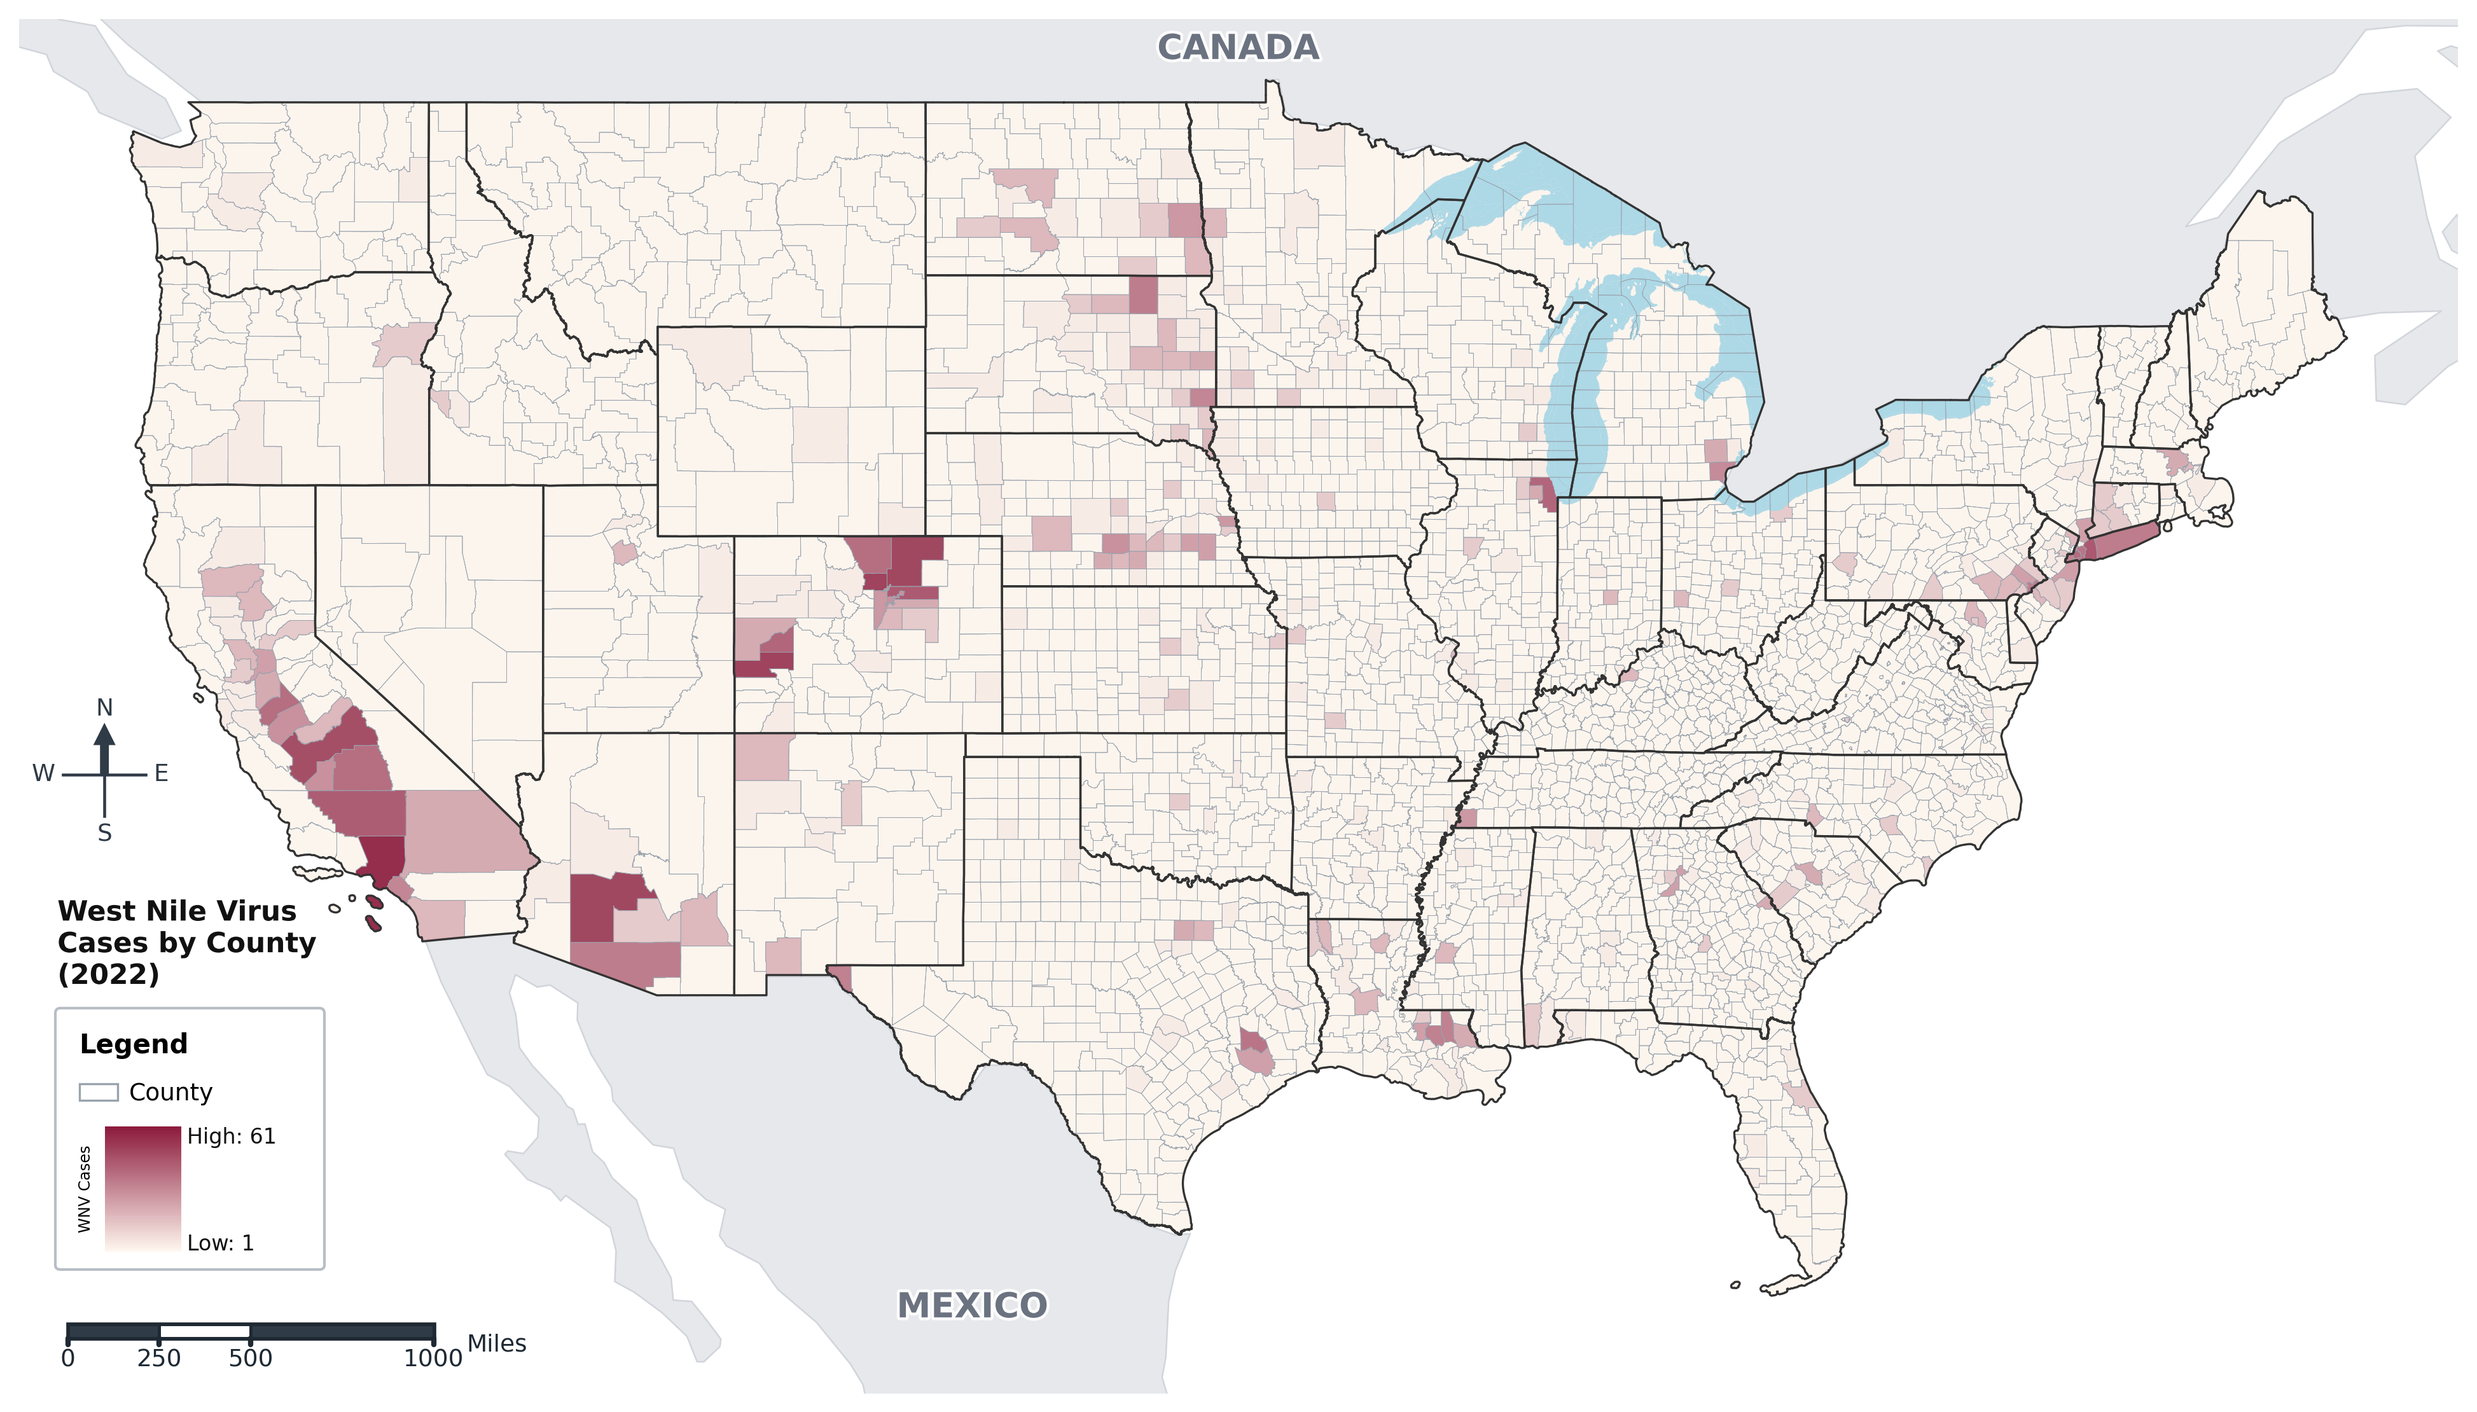
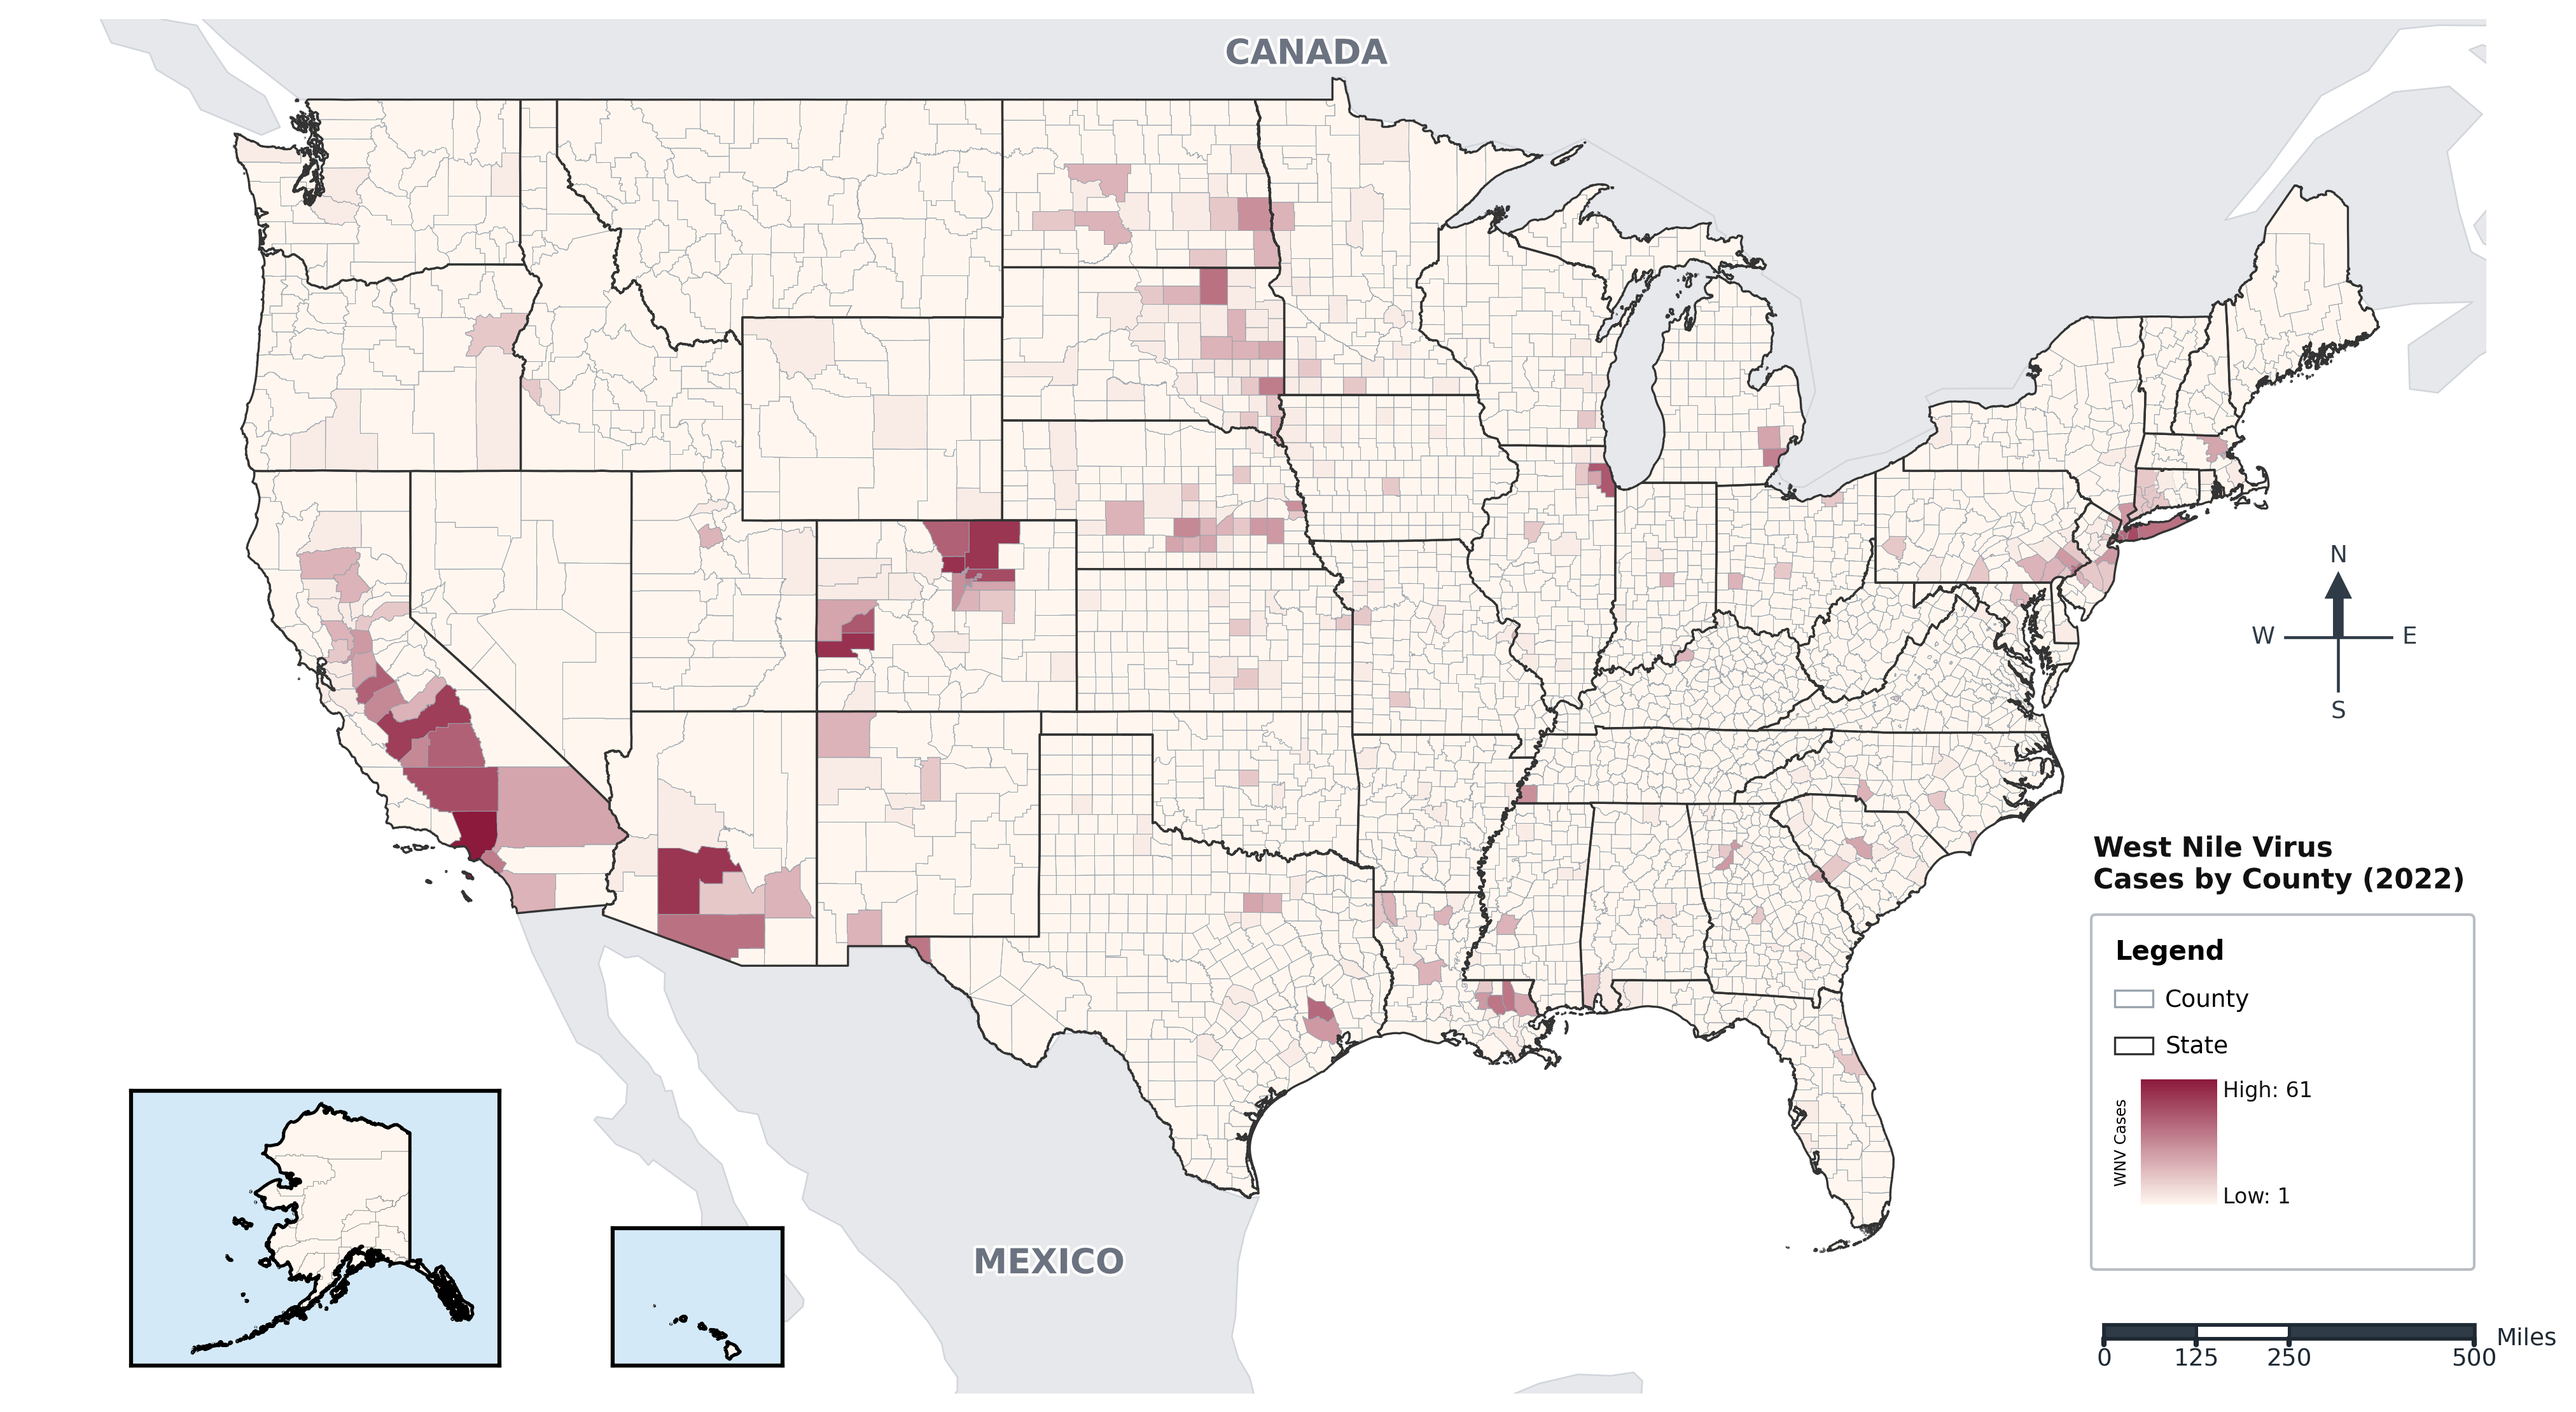
connecticut region fixed for 2017-2022

diff --git a/notebooks/national_embeddings/maps.py b/notebooks/national_embeddings/maps.py
@@ -32,6 +32,11 @@ SCRIPT_DIR = Path(__file__).parent  # ../national_embeddings/
 # shapefiles obtained from: https://www.census.gov/cgi-bin/geo/shapefiles/index.php on Feb. 4, 2026
 CENSUS_STATES = "https://www2.census.gov/geo/tiger/GENZ2023/shp/cb_2023_us_state_500k.zip"
 CENSUS_COUNTIES = "https://www2.census.gov/geo/tiger/GENZ2023/shp/cb_2023_us_county_500k.zip"
+# this is for connecticut, to be able to plot it up until 2023. 
+# connecticut used counties for WNV case data up until 2022. 
+# and it also used geoids for keeping track of the case data, 
+# thus I need an older version to plot it 
+LEGACY_COUNTIES_CT = "https://www2.census.gov/geo/tiger/GENZ2018/shp/cb_2018_us_county_500k.zip"
 
 COUNTRIES = SCRIPT_DIR / "shapefiles/ne_110m_admin_0_countries"
 ALL_DATA = SCRIPT_DIR / "national_wnv_case_data/long_format_emb_and_cases.csv"
@@ -39,11 +44,14 @@ ALL_DATA = SCRIPT_DIR / "national_wnv_case_data/long_format_emb_and_cases.csv"
 # ----- Get state and county geographies (and great lakes), neighboring countries, embeddings + WNV data ----- #
 states = gpd.read_file(CENSUS_STATES)
 counties = gpd.read_file(CENSUS_COUNTIES)
+legacy_counties = gpd.read_file(LEGACY_COUNTIES_CT)
+legacy_ct_counties = legacy_counties[legacy_counties["STATEFP"] == "09"].copy()
 
 df_all = pd.read_csv(ALL_DATA)
 df_all["GEOID"] = df_all["GEOID"].astype(str).str.zfill(5)
 
 world = gpd.read_file(COUNTRIES)
+
 
 # ----- Project to EPSG:3857 and adjust boundaries ----- #
 
@@ -64,9 +72,7 @@ states = states.to_crs(3857)
 states = states[~states["STUSPS"].isin(exclude)]
 counties = counties[~counties["STATEFP"].isin(exclude_sfips)]
 counties = counties.to_crs(3857)
-
-# get united states outline
-# us_outline = gpd.GeoDataFrame(geometry=[unary_union(states.geometry)], crs=states.crs)
+legacy_ct_counties = legacy_ct_counties.to_crs(3857)
 
 # ----- Merge previous long dataframe with geographies ----- #
 
@@ -278,12 +284,28 @@ counties_all = gpd.read_file(CENSUS_COUNTIES).to_crs(3857)
 us_union = unary_union(states.geometry)
 us_outline = gpd.GeoDataFrame(geometry=[remove_holes(us_union)],crs=states.crs)
 
-for year in range(2017, 2018):
+for year in range(2022, 2023):
     col = f"Cases_{year}"
-    
-    # Prepare data
-    plot_df = df_merged.copy()
-    plot_df["plot_col"] = plot_df[col].copy()
+    # IMPORTANT: 2017-2022 CT data plotting
+    if year <= 2022:
+        # Use legacy CT counties for this year
+        plot_df_base = df_merged[~df_merged["GEOID"].str.startswith("09")].copy()
+        
+        # Merge legacy CT counties with case data
+        legacy_ct_geom = legacy_ct_counties[["GEOID", "geometry"]]
+        ct_cases = df_all[df_all["GEOID"].str.startswith("09")][["GEOID", col]].copy()
+        ct_merged = pd.merge(ct_cases, legacy_ct_geom, on="GEOID", how="inner")
+        ct_merged = gpd.GeoDataFrame(ct_merged, geometry=ct_merged.geometry, crs=states.crs)
+        ct_merged = ct_merged.rename(columns={col: "plot_col"})
+        
+        # Combine non-CT data with legacy CT data
+        plot_df_base = plot_df_base.rename(columns={col: "plot_col"})
+        plot_df = pd.concat([plot_df_base, ct_merged], ignore_index=True)
+        plot_df = gpd.GeoDataFrame(plot_df, geometry=plot_df.geometry, crs=states.crs)
+    else:
+        # For 2023+, use current counties (CT will be excluded/hatched)
+        plot_df = df_merged.copy()
+        plot_df = plot_df.rename(columns={col: "plot_col"})
     
     # Handle zeros/missing
     has_pos = (plot_df["plot_col"] > 0).any()
